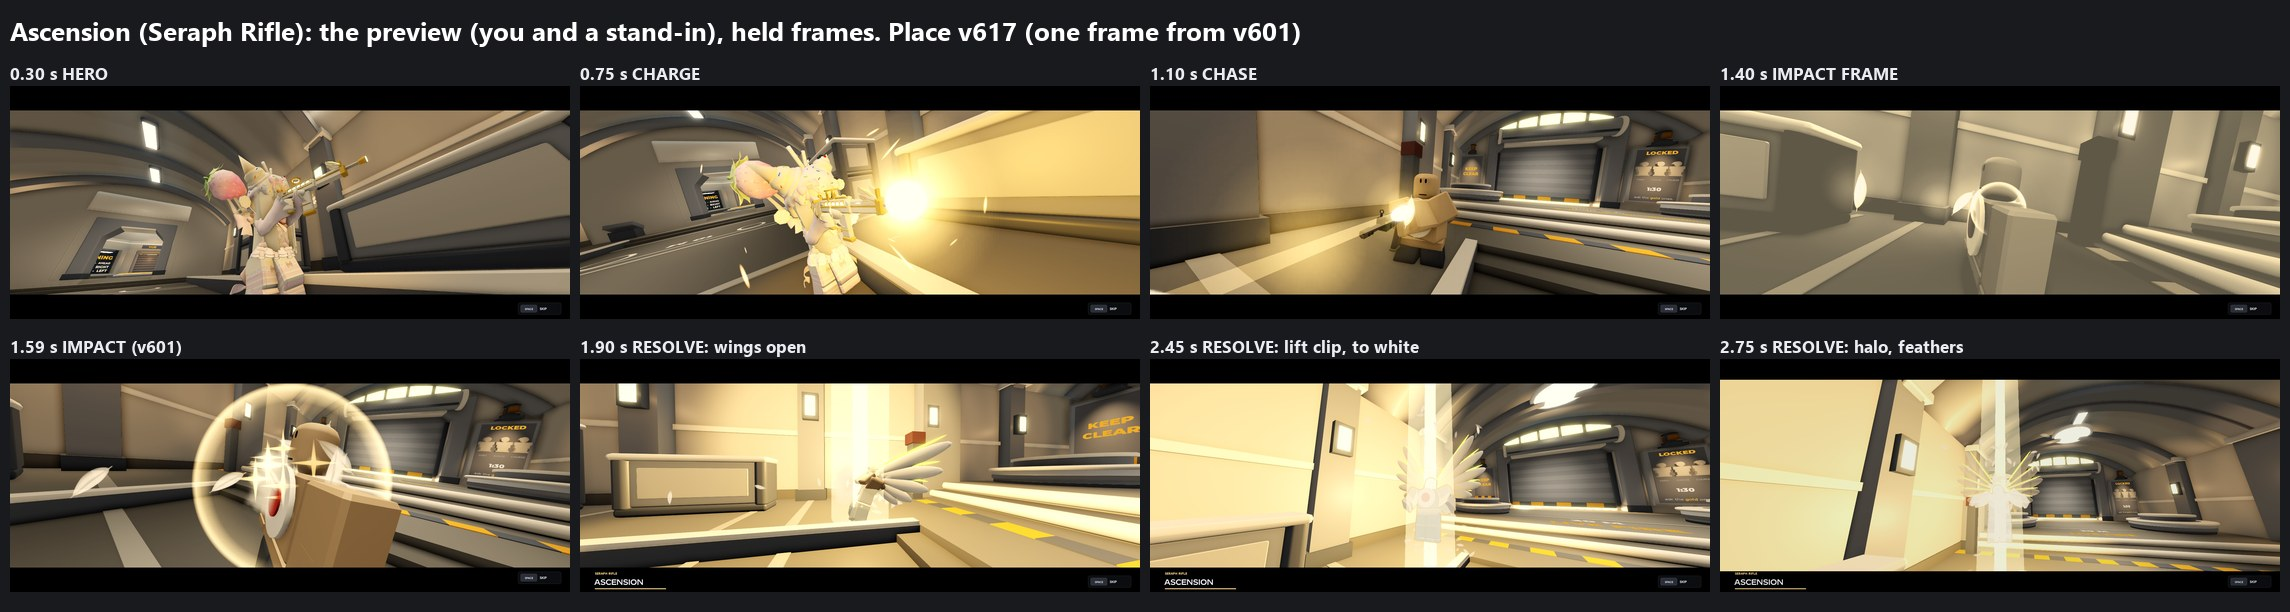
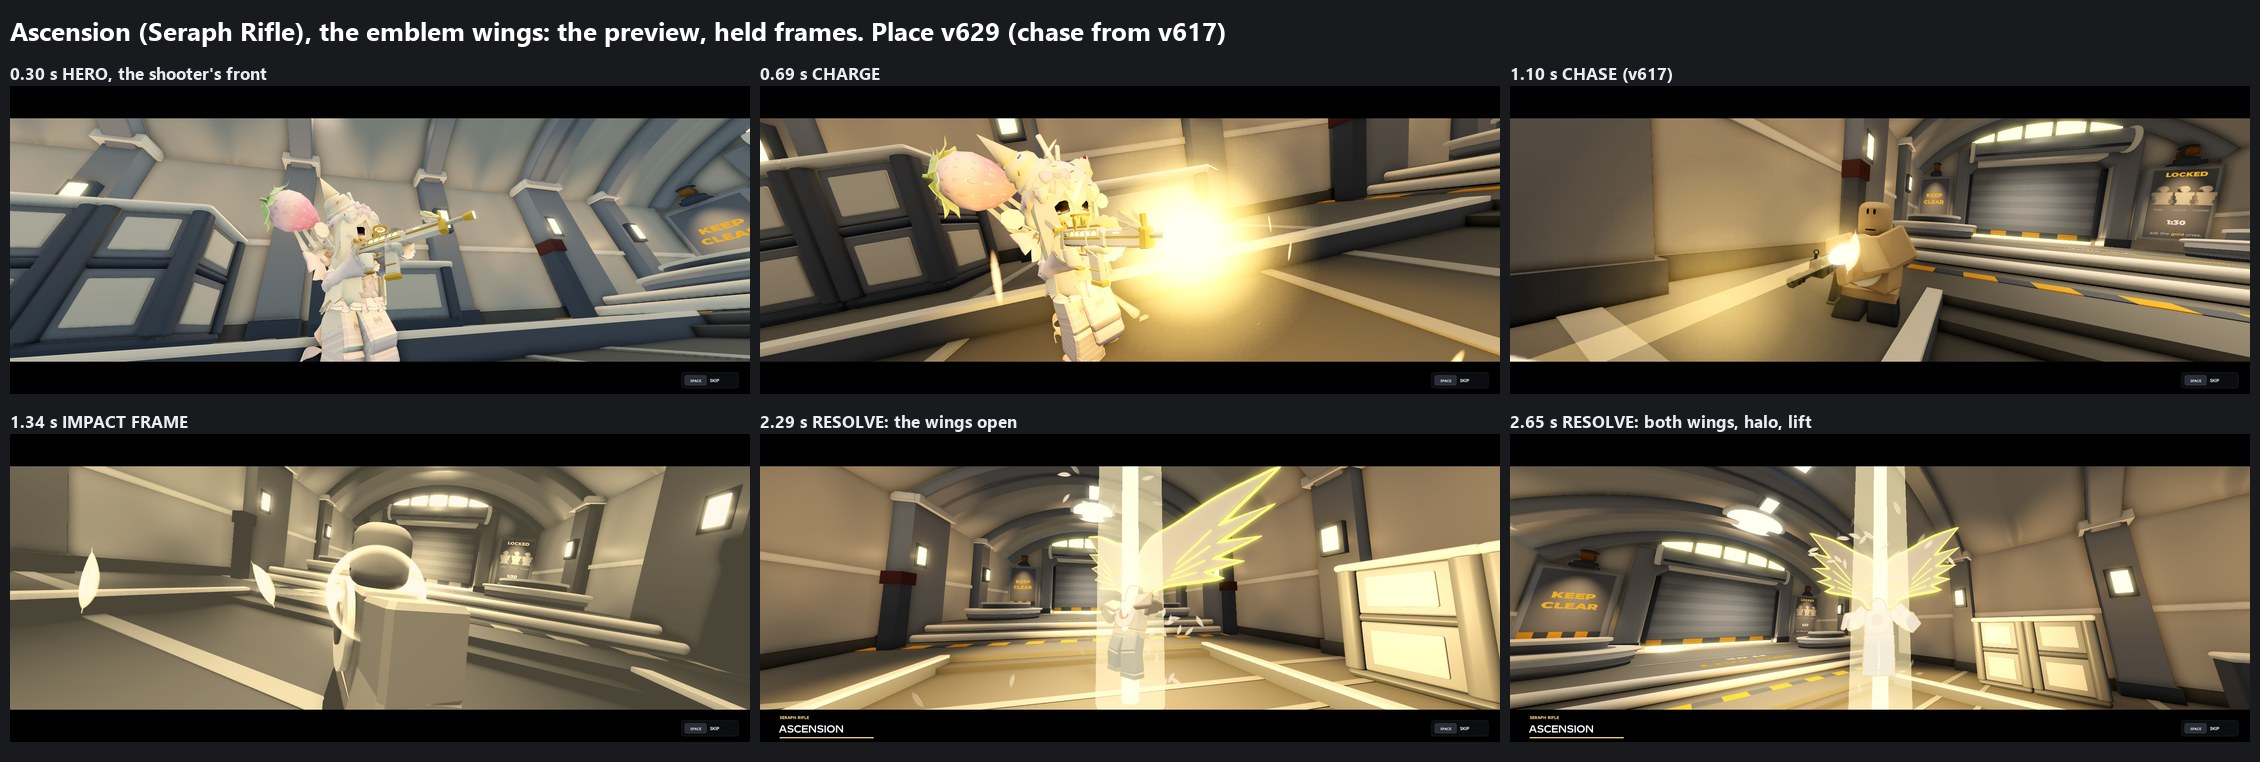
Roblox finishers: strips of the second pass, fixes from them (place version 629)
- Held-frame strips: Ascension with the emblem wings, High Noon, Inkfall, Warp Out, Lantern Light
  and Starchart (roblox/docs/finishers/).
- The preview's hero now shows the shooter's front (the aim flag fix, seen in a photo).
- Lantern Light's carved face lies flat and turns to the lens.
- Inkfall's ink stroke draws (beam texture).
- A blade's preview stands the stand-in close.
- A skin outside a set still shows its name.

diff --git a/roblox/docs/FINISHERS.md b/roblox/docs/FINISHERS.md
@@ -266,18 +266,26 @@ It needs Studio's **Test > Clients and Servers** with 2 players, which the owner
 or a live server with two accounts. The wiring is two lines: `Matches.onRound(fn)` and `Matches.onEnd(fn)` in
 FinisherServer.
 
-**The preview's facing.** In the first photos the preview's HERO and CHARGE shots showed the shooter from behind. Real
-kills showed the front. The first suspect is the aim flag, which was set on the preview's made-up frames (a real
-recording had it off). It is now off. Measured in Play:
-- the shooter's root faces the stand-in (0.94, 0, -0.34);
-- the stand-in faces back;
-- the HERO lens sits in front of the shooter (3.5 studs ahead along their facing), looking at them.
+**The preview's facing: fixed.** In the first photos the preview's HERO and CHARGE shots showed the shooter from
+behind; real kills showed the front. The aim flag was set on the preview's made-up frames (a real recording had it
+off). It is now off, and the v629 photos show the shooter's face (the Ascension strip's first frame).
 
-Not seen in a picture yet: Studio's window was minimised all through this pass, and a minimised Studio draws only the
-UI.
+**Fixed after the second pass's first photos (place v629):**
+- **Lantern Light's carved face** stuck out of the pumpkin as small prisms and faced the shooter, so the orbiting lens
+  saw it side-on. It now lies flat in the surface and turns toward the lens.
+- **Inkfall's ink stroke** didn't draw: the streak sprite runs the wrong way for a Beam. It now uses the beam texture.
+- **A blade's preview** stood the stand-in 16 studs away; it is now 5.
+- **The skin's name** is missing under a finisher whose skin isn't in a set (the Triangulum). The name now comes from
+  the skin id.
 
-**Photos still to take** (as soon as Studio draws again): the new wings in Ascension, High Noon, Inkfall, Warp Out,
-Lantern Light and Starchart, as held-frame strips, and the preview's HERO shot.
+**The strips** (held frames, place v624 to v629; Studio was minimised for an hour in between):
+
+![Ascension](finishers/ascension_strip.jpg)
+![High Noon](finishers/highnoon_strip.jpg)
+![Inkfall](finishers/inkfall_strip.jpg)
+![Warp Out](finishers/warpout_strip.jpg)
+![Lantern Light](finishers/lanternlight_strip.jpg)
+![Starchart](finishers/starchart_strip.jpg)
 
 **Not tested yet:** a real phone.
 
